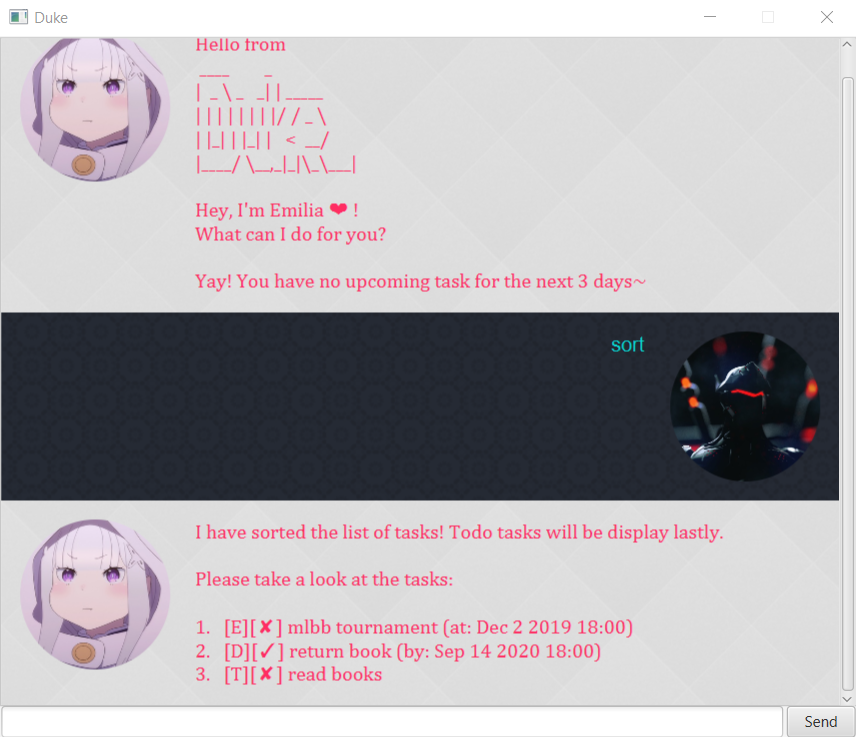
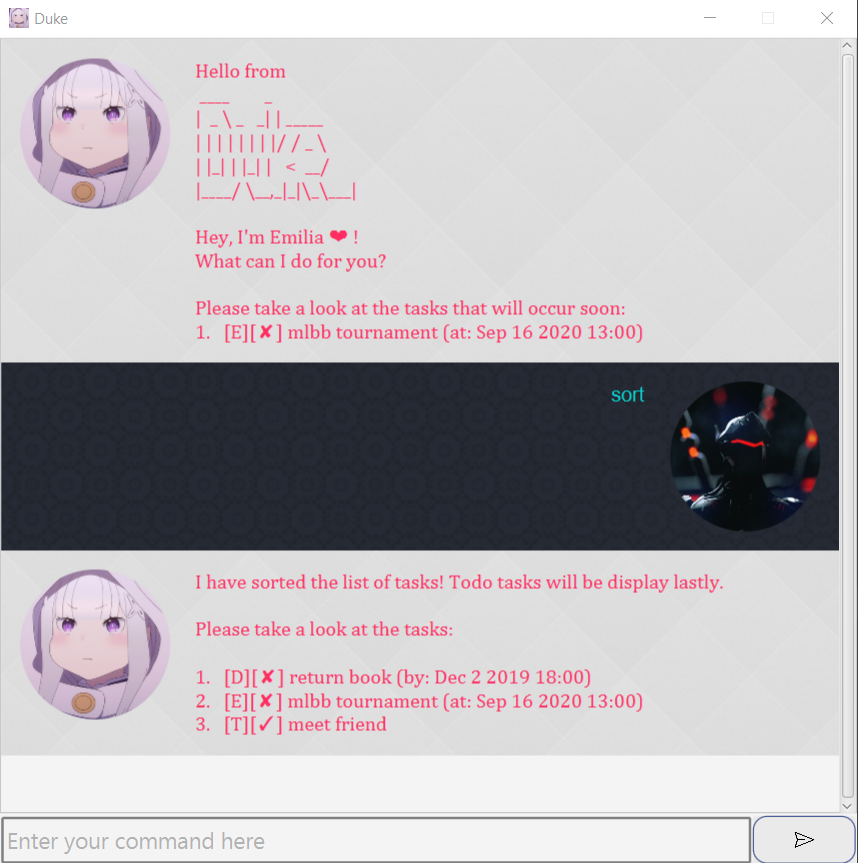
Improve GUI

Changed region(s): [[0.0, 0.0, 1.0, 1.0]]

diff --git a/src/main/resources/css/styles.css b/src/main/resources/css/styles.css
@@ -13,3 +13,36 @@
     -fx-font-family: Arial;
     -fx-font-size: 16;
 }
+
+#UserInput{
+   -fx-font-family: "Quicksand";
+   -fx-font-size: 18;
+   -fx-padding: 1,1,1,1;
+   -fx-border-color: grey;
+   -fx-border-width: 2;
+   -fx-border-radius: 1;
+   -fx-border: gone;
+   -fx-background-color: transparent;
+   -fx-text-fill: grey;
+}
+
+#Button{
+	-fx-box-shadow: 0px 0px 0px 2px;
+	-fx-box-shadow-color: #9fb4f2;
+    -fx-background:linear-gradient(to bottom, #7892c2 5%, #476e9e 100%);
+    -fx-background-color: #eaeaea;
+	-fx-border-radius:11px;
+	-fx-border:1px;
+	-fx-border-style: solid;
+	-fx-border-color: #4e6096;
+	-fx-display:inline-block;
+	-fx-cursor:pointer;
+	-fx-font-color:#ffffff;
+	-fx-font-family:Arial;
+    -fx-font-size:17px;
+	-fx-font-weight:bold;
+	-fx-text-decoration: none;
+	-fx-text-shadow:0px 1px 0px;
+	-fx-text-shadow-color: #283966;
+}
+

diff --git a/src/main/java/duke/Duke.java b/src/main/java/duke/Duke.java
@@ -36,6 +36,7 @@ public class Duke extends Application {
 
     private Image user = new Image(this.getClass().getResourceAsStream("/images/User.png"));
     private Image duke = new Image(this.getClass().getResourceAsStream("/images/Duke.jpg"));
+    private Image icon = new Image(this.getClass().getResourceAsStream("/images/send.png"));
 
     /**
      * Represents a Duke object that servers as a tracking bot
@@ -67,8 +68,19 @@ public class Duke extends Application {
         scrollPane.setContent(dialogContainer);
 
         userInput = new TextField();
-        sendButton = new Button("Send");
+        userInput.setId("UserInput");
+        userInput.getStylesheets().add("/css/styles.css");
+        userInput.setPromptText("Enter your command here");
 
+
+        sendButton = new Button();
+        ImageView icon = new ImageView(this.icon);
+        icon.setFitHeight(24);
+        icon.setFitWidth(30);
+        sendButton.setGraphic(icon);
+        sendButton.setId("Button");
+        sendButton.getStylesheets().add("/css/styles.css");
+        
         AnchorPane mainLayout = new AnchorPane();
         mainLayout.getChildren().addAll(scrollPane, userInput, sendButton);
 
@@ -77,13 +89,14 @@ public class Duke extends Application {
         stage.show();
 
         stage.setTitle("Duke");
+        stage.getIcons().add(this.duke);
         stage.setResizable(false);
-        stage.setMinHeight(600.0);
+        stage.setMinHeight(700.0);
         stage.setMinWidth(700.0);
 
-        mainLayout.setPrefSize(800.0, 600.0);
+        mainLayout.setPrefSize(800.0, 700.0);
 
-        scrollPane.setPrefSize(685, 535);
+        scrollPane.setPrefSize(685, 620);
         scrollPane.setHbarPolicy(ScrollPane.ScrollBarPolicy.NEVER);
         scrollPane.setVbarPolicy(ScrollPane.ScrollBarPolicy.ALWAYS);
 
@@ -93,9 +106,10 @@ public class Duke extends Application {
         // You will need to import `javafx.scene.layout.Region` for this.
         dialogContainer.setPrefHeight(Region.USE_COMPUTED_SIZE);
 
-        userInput.setPrefWidth(625.0);
-
-        sendButton.setPrefWidth(55.0);
+        userInput.setPrefWidth(600.0);
+        userInput.setPrefHeight(37);
+        sendButton.setPrefWidth(82.0);
+        sendButton.setPrefHeight(36);
 
         AnchorPane.setTopAnchor(scrollPane, 1.0);
 
